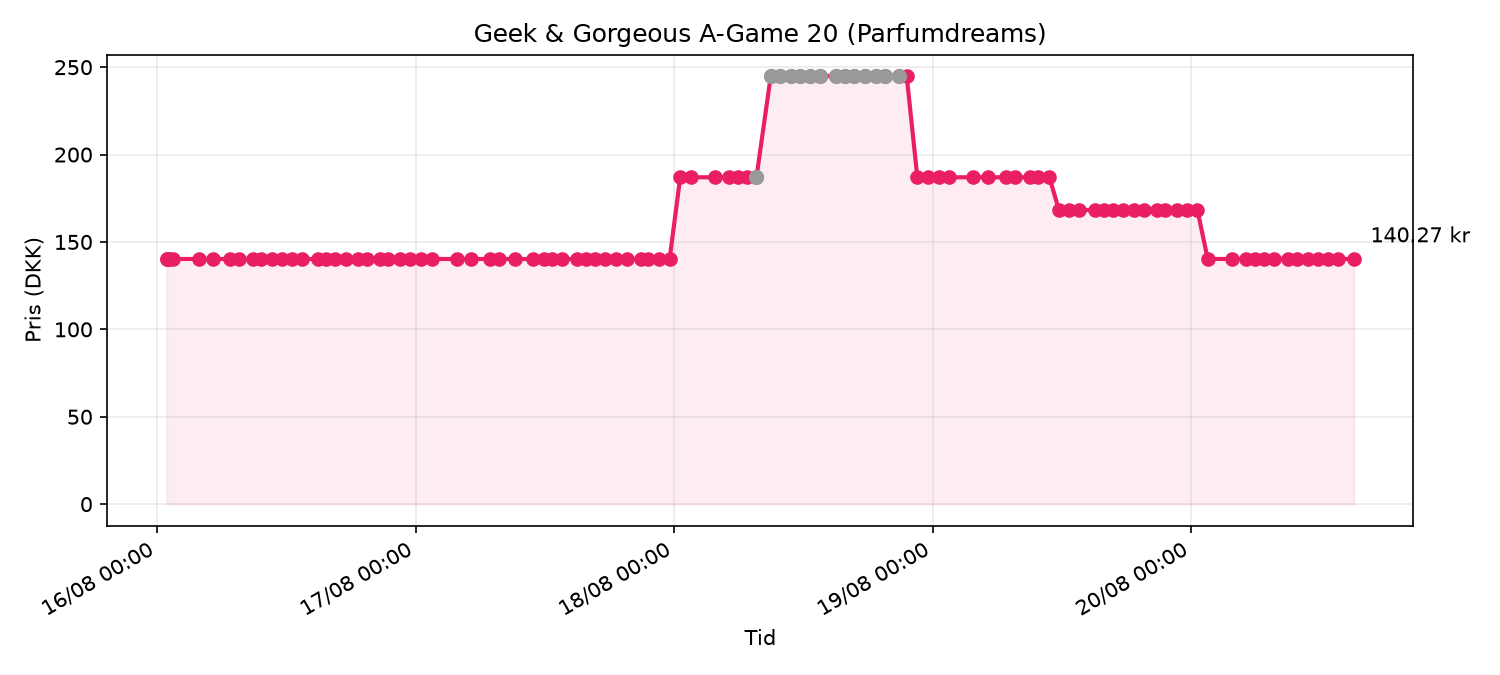
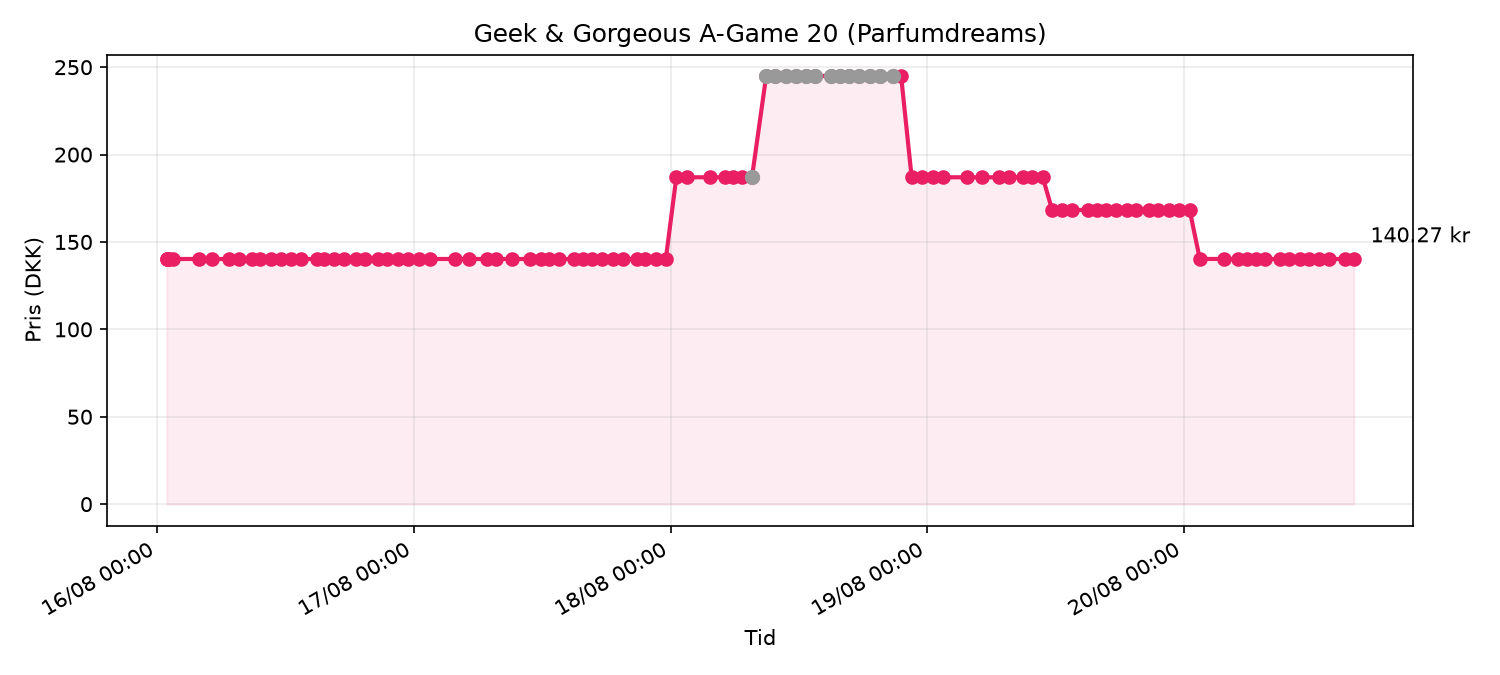
deploy: 1ee2066f677b0cc518bfc2fa52091ee54a57a129

diff --git a/price_chart.html b/price_chart.html
@@ -13,7 +13,7 @@
 </head>
 <body>
   <h1>Geek & Gorgeous A-Game 20 (Parfumdreams)</h1>
-  <p class="meta">Senest tjekket: 20/08/2026 15:04 · Pris: <strong>140.27 kr</strong> · på lager</p>
+  <p class="meta">Senest tjekket: 20/08/2026 15:54 · Pris: <strong>140.27 kr</strong> · på lager</p>
   
   <p><a href="https://www.parfumdreams.dk/Geek-Gorgeous/Samlinger/101-aktive-stoffer/A-Game-20-Serum/index_137083.aspx?variation=221879">Åbn produkt på Parfumdreams</a></p>
   <img src="price_chart.png" alt="Prisgraf">
